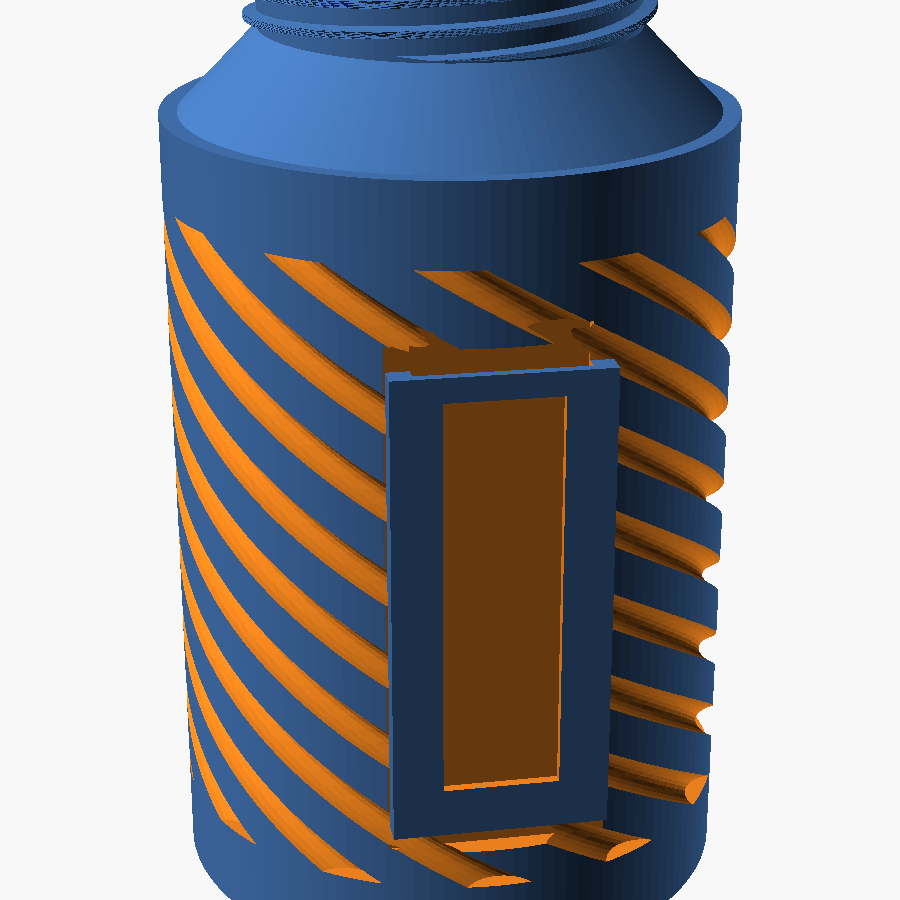
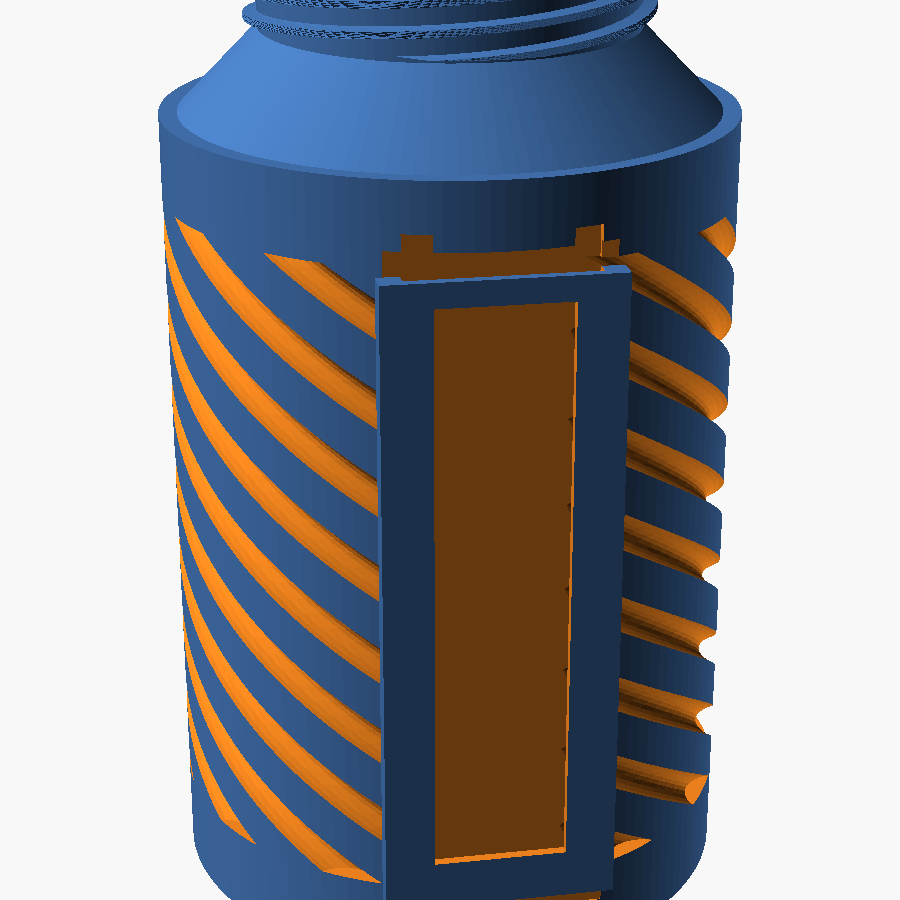
Bouteilles : porte-etiquette sur presque toute la hauteur
C'est le cadre qui commande le meplat, pas l'inverse : il suffisait
donc que le cadre soit haut. Les cotes par defaut passent a une bande
de 22 x 76 partant a 10 du fond, soit presque tout le fut. Raccourcir
la hauteur de languette reduit le meplat avec elle.

Changed region(s): [[0.4044, 0.2489, 0.7156, 1.0]]

diff --git a/bottle-builder.html b/bottle-builder.html
@@ -338,8 +338,8 @@ const DEFAUT = () => ({
   flutes: 12, flute_d: 2.2, flute_w: 5, flute_bot: 12, flute_top: 10, twist: 220,
   shoulder_h: 10, neck_d: 46, neck_h: 18,
   thread_lead: 10, thread_depth: 1.8, thread_starts: 3, thread_clear: 0.35,
-  label: 0, label_w: 20, label_h: 55, label_card: 1.2, label_front: 1.2,
-  label_rail: 3, label_z: 20, label_flat: 2.6,
+  label: 0, label_w: 22, label_h: 76, label_card: 1.2, label_front: 1.2,
+  label_rail: 3, label_z: 10, label_flat: 2.6,
   lid_top: 2.4, lid_wall: 2.4, lid_extra: 2, knurl: 44, knurl_d: 0.6,
 });
 

diff --git a/docs/Bottle-Builder.md b/docs/Bottle-Builder.md
@@ -57,6 +57,10 @@ longer sits flat — and it is planed **only over the frame's band**,
 not the whole barrel, so the flutes survive above and below it. The
 panel says so when the flat is too shallow.
 
+The frame drives the flat, not the other way round: the default is a
+tall strip running most of the barrel. Shorten *Tongue height* and the
+planed area shrinks with it.
+
 The **Tongue** part appears as a third button once the holder is on:
 print it flat, write on it, slide it in. The panel refuses a flat
 deeper than the material available — it would pierce the wall — and
